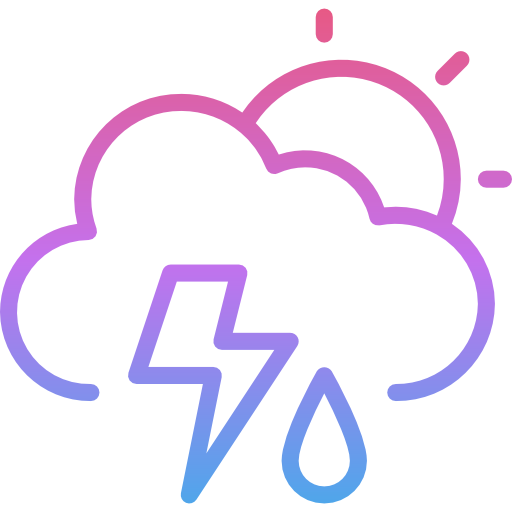
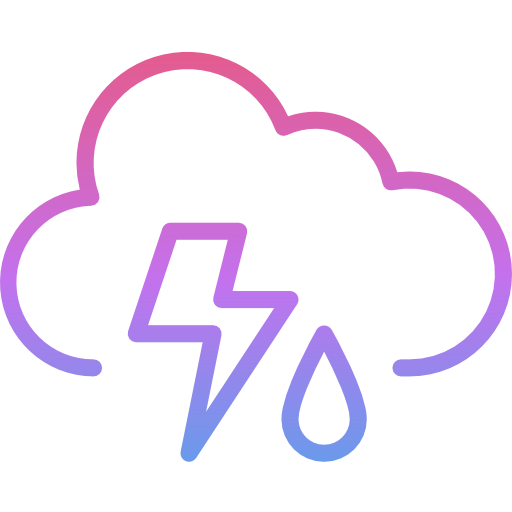
add img for weather conditions left but failed display img sunrise and sunset

Changed region(s): [[0.0, 0.0, 1.0, 0.7812], [0.25, 0.4062, 0.7188, 1.0]]

diff --git a/script.js b/script.js
@@ -4,20 +4,26 @@ let weather = document.querySelector(".localisation button");
 let humidity = document.querySelector(".humidity p");
 let pressure = document.querySelector(".pressure p");
 let wind = document.querySelector(".wind p");
-let sunrise = document.querySelector(".sun__rise");
-let sunset = document.querySelector(".sun__set");
+let sunrise = document.querySelector(".sun__rise > p");
+let sunset = document.querySelector(".sun__set > p");
 let today = document.querySelector("h4");
 let hour = document.querySelectorAll(".hour");
 let section = document.querySelector("#temp-hours");
 
 // TEMP ICONS
 let imgArrayDay = [
-  "./img/sun.png",
-  "./img/cloud.png",
-  "./img/cloudy.png",
-  "./img/rainy.png",
-  "./img/storm.png",
-  "./img/snowy.png",
+  "./img/sun.png",//Clear
+  "./img/cloud.png",//Clouds
+  "./img/rainy.png",//Rain and Drizzle
+  "./img/storm.png",//Thunderstorm
+  "./img/snowy.png",//Snow
+  "./img/loading",
+  "./img/warning.png",//Mist, Smoke, Haze, Dust, Fog, Sand, Ash, Squall, Tornado
+  "./img/sunrise",
+  "./img/sunset",
+  "./img/humidity.png",
+  "./img/pressure.png",
+  "./img/wind.png"
 ];
 
 // IS GEOLOCALISATION ON ?
@@ -97,12 +103,18 @@ async function getWeatherData(long, lat) {
   // WEATHER CONDITIONS
   function weatherConditions(weatherPath) {
     let image = document.createElement("img");
-    if (weatherPath === "Clouds") {
+    if (weatherPath === "Clear") {
       image.src = imgArrayDay[0];
-    } else if (weatherPath === "Clear") {
+    } else if (weatherPath === "Clouds") {
       image.src = imgArrayDay[1];
+    } else if (weatherPath === "Rain" || "Drizzle") {
+      image.src = imgArrayDay[2];
+    } else if (weatherPath === "Thunderstorm") {
+      image.src = imgArrayDay[3];
+    } else if (weatherPath === "Snow") {
+      image.src = imgArrayDay[4];
     } else {
-      console.log("Coucou je passe par là");
+    image.src = imgArrayDay[6];
     }
     return image.outerHTML;
   }

diff --git a/index.html b/index.html
@@ -19,7 +19,7 @@
                 <p></p>
                 <button></button>
             </div>
-                <img src="./img/meteo.png" alt="temp-illustration">
+            <img src="./img/meteo.png" alt="temp-illustration">
         </section>
         <!-- SCIENTIFIC INFOS -->
         <section class="infos">
@@ -39,11 +39,11 @@
         <!-- SUNRISE AND SUNSET -->
         <section class="sun">
             <div class="sun__rise">
-                <img src="./img/meteo.png" alt="">
+                <img src="./img/sunrise.png" alt="cc">
                 <p></p>
             </div>
             <div class="sun__set">
-                <img src="./img/meteo.png" alt="">
+                <img src="./img/sunset.png" alt="cc">
                 <p></p>
             </div>
         </section>

diff --git a/scss/style.scss b/scss/style.scss
@@ -67,10 +67,6 @@ main {
 }
 
 .sun {
-  img {
-    display: none;
-  }
-
   display: flex;
   justify-content: space-between;
   align-items: center;
